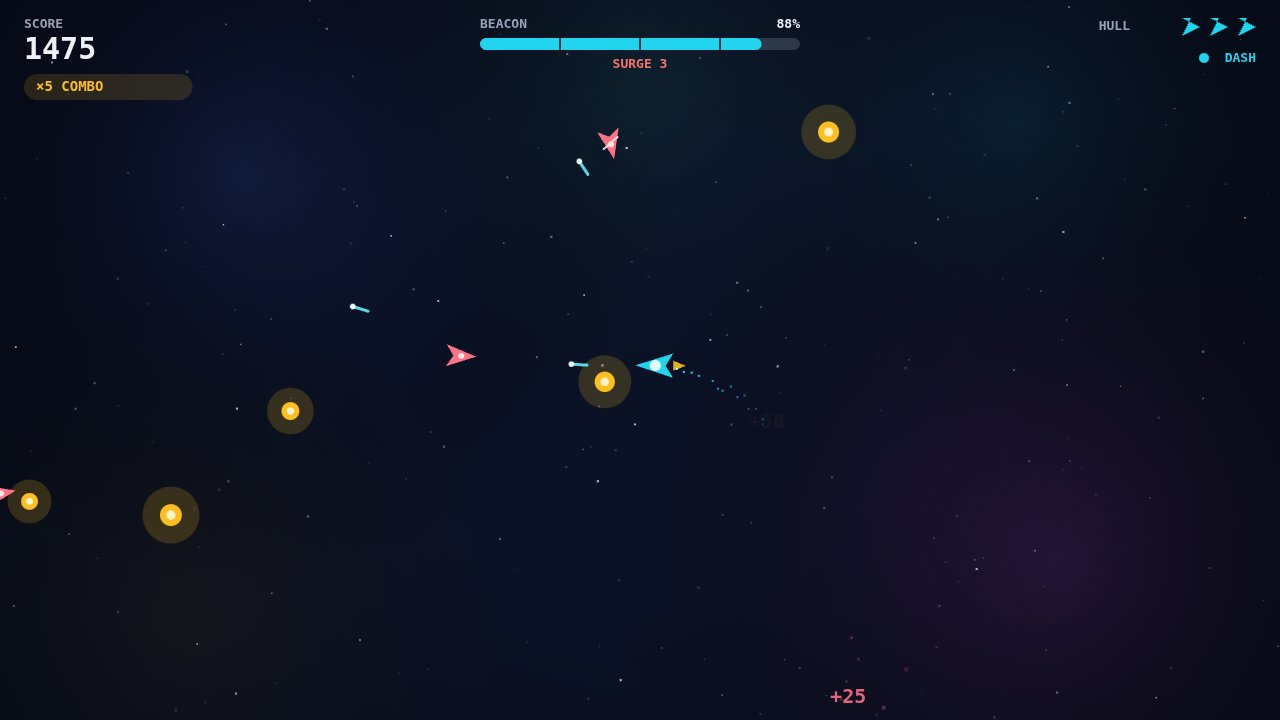
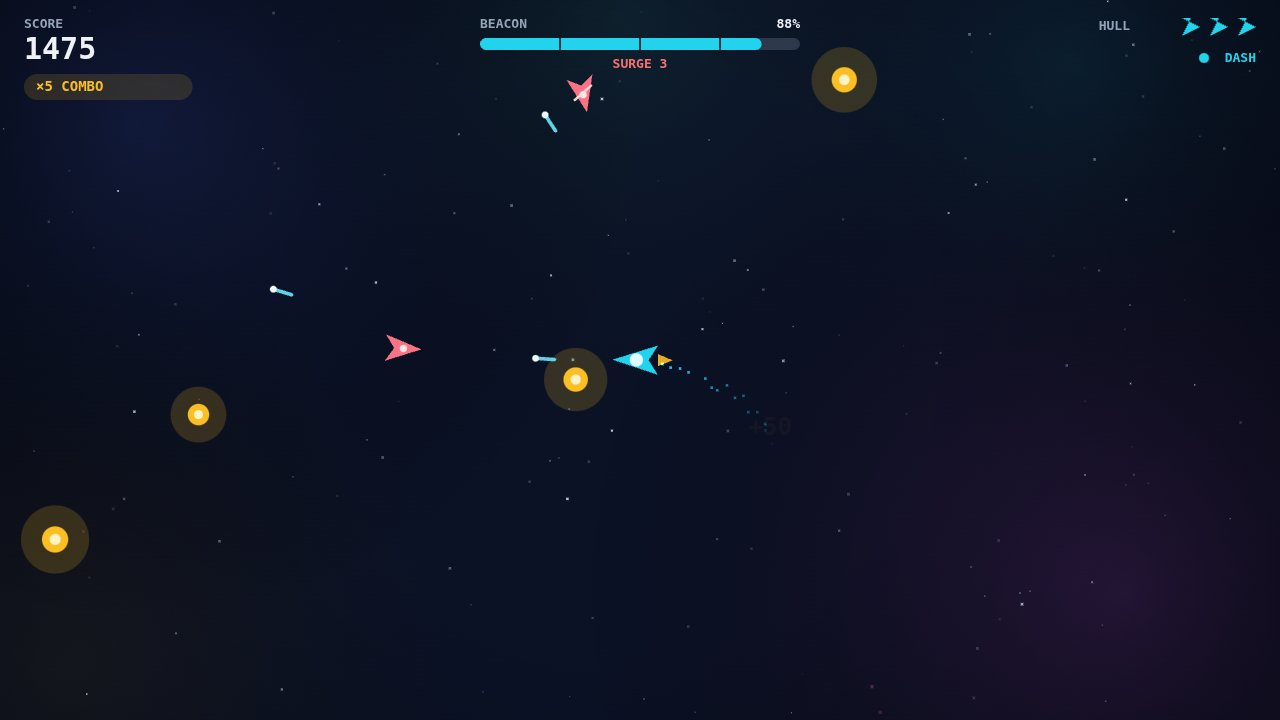
Camera follow + tighter view, re-stage shots
- render.js: camera follows the ship (lerp), 1.2x zoom window into the
  field, clamped so the view never leaves the field; HUD/panels fixed
  to the screen; mouse aim inverted through the camera; snapCamera for
  deterministic staged shots; read-only cam handle for checks
- main.js: snap the camera before painting a staged shot; expose cam
  on window.__aether
- world.js untouched: sim, rules and balance identical (strong 30/30
  wins, weak dies 26/30)
- Re-staged all 4 screenshots (same seeds: start 7, play 195, win 7,
  end 2); play shot now shows the ship centred, bigger, with the
  field flowing past

diff --git a/game/src/render.js b/game/src/render.js
@@ -1,10 +1,12 @@
 // Drawing only: the world's state and the current screen in, pixels out. The 1280x720
 // playfield is scaled to fit the window and centred, the margin filled with the backdrop
-// colour. The nebula is painted once into an offscreen canvas at boot; stars twinkle and
-// parallax against the ship; the HUD is a top bar (score, beacon, hull) and the panels are
-// thin-bordered cards. Text that holds a number is rebuilt only when the number changes,
-// so a frame allocates nothing. Shake follows a sine of the clock, never Math.random,
-// so a staged frame is the same frame every time.
+// colour. A camera follows the ship: it shows a zoomed window of the field, so the
+// field flows past as the ship moves and the ship stays near the centre. The nebula is
+// painted once into an offscreen canvas at boot; stars twinkle and parallax against
+// the ship; the HUD is a top bar (score, beacon, hull) and the panels are thin-bordered
+// cards. Text that holds a number is rebuilt only when the number changes, so a frame
+// allocates nothing. Shake follows a sine of the clock, never Math.random, so a staged
+// frame is the same frame every time.
 
 import { BOLT, DRONE, FIELD, FONT, FONT_MONO, HULL_MAX, ORB, PALETTE, SHIP } from './config.js';
 import { SCREEN_OVER, SCREEN_PAUSED, SCREEN_PLAY, SCREEN_TITLE, SCREEN_WIN } from './screens.js';
@@ -28,6 +30,16 @@ function cachedLabel(prefix) {
 export function createRenderer(canvas) {
   const context = canvas.getContext('2d');
   const view = { scale: 1, x: 0, y: 0, w: 0, h: 0 };
+  // The camera: a zoomed window into the field that follows the ship. It is a render
+  // transform only — the sim never sees it, so the rules and the balance do not
+  // change. The window is smaller than the field, so it pans within it; clamped, it
+  // never shows outside the field.
+  const CAM_ZOOM = 1.2;
+  const CAM_W = FIELD.width / CAM_ZOOM;
+  const CAM_H = FIELD.height / CAM_ZOOM;
+  const cam = { x: 0, y: 0 };
+  let camSet = false;
+  let lastDraw = 0;
   const reducedMotion = window.matchMedia?.('(prefers-reduced-motion: reduce)').matches ?? false;
   const scoreLabel = cachedLabel('');
   const bestLabel = cachedLabel('BEST ');
@@ -94,7 +106,24 @@ export function createRenderer(canvas) {
     const rect = canvas.getBoundingClientRect();
     const px = ((clientX - rect.left) / rect.width) * view.w;
     const py = ((clientY - rect.top) / rect.height) * view.h;
-    return { x: (px - view.x) / view.scale, y: (py - view.y) / view.scale };
+    // Invert the camera transform: the point under the cursor in world coordinates.
+    const scale = view.scale * CAM_ZOOM;
+    return { x: cam.x + (px - view.x) / scale, y: cam.y + (py - view.y) / scale };
+  }
+
+  function cameraTarget(state) {
+    return {
+      x: Math.min(Math.max(state.player.x - CAM_W / 2, 0), FIELD.width - CAM_W),
+      y: Math.min(Math.max(state.player.y - CAM_H / 2, 0), FIELD.height - CAM_H),
+    };
+  }
+
+  /** Put the camera exactly on the ship: a staged frame must paint identically every time. */
+  function snapCamera(state) {
+    const target = cameraTarget(state);
+    cam.x = target.x;
+    cam.y = target.y;
+    camSet = true;
   }
 
   function drawStars(state) {
@@ -366,11 +395,24 @@ export function createRenderer(canvas) {
   const WIN_LINES = ['', '', ''];
   const OVER_LINES = ['', '', ''];
 
-  /** Paint one frame: the field, then the HUD or a panel for the screen the game is on. */
+  /** Paint one frame: the field through the camera, then the HUD or a panel for the screen the game is on. */
   function draw(state, screen, best, muted) {
     context.setTransform(1, 0, 0, 1, 0, 0);
     context.fillStyle = PALETTE.backdrop;
     context.fillRect(0, 0, view.w, view.h);
+    // Follow the ship: snap the first time so the game never opens mid-slide, then
+    // ease toward it. The target is a pure function of the state, so a snapped
+    // camera paints the same frame every time.
+    const now = performance.now();
+    if (!camSet) snapCamera(state);
+    else {
+      const dt = Math.min(Math.max((now - lastDraw) / 1000, 0), 0.1);
+      const target = cameraTarget(state);
+      const k = 1 - Math.exp(-dt * 8);
+      cam.x += (target.x - cam.x) * k;
+      cam.y += (target.y - cam.y) * k;
+    }
+    lastDraw = now;
     let sx = 0;
     let sy = 0;
     if (state.shake > 0 && !reducedMotion) {
@@ -378,8 +420,11 @@ export function createRenderer(canvas) {
       sx = Math.sin(state.elapsed * 61) * mag;
       sy = Math.cos(state.elapsed * 53) * mag;
     }
-    context.setTransform(view.scale, 0, 0, view.scale, view.x + sx * view.scale, view.y + sy * view.scale);
+    const zoom = view.scale * CAM_ZOOM;
+    context.setTransform(zoom, 0, 0, zoom, view.x - (cam.x - sx) * zoom, view.y - (cam.y - sy) * zoom);
     drawField(state);
+    // The HUD and panels are fixed to the screen, not the world.
+    context.setTransform(view.scale, 0, 0, view.scale, view.x, view.y);
     if (screen === SCREEN_TITLE) {
       TITLE_LINES[4] = bestLabel(best);
       drawPanel('AETHER DRIFT', TITLE_LINES, 'Press Space or click to launch', PALETTE.ship);
@@ -402,5 +447,11 @@ export function createRenderer(canvas) {
 
   resize();
   window.addEventListener('resize', resize);
-  return { draw, toField };
+  return {
+    draw,
+    toField,
+    snapCamera,
+    /** Read-only camera state for automated checks: top-left of the camera window and zoom. */
+    get cam() { return { x: cam.x, y: cam.y, zoom: CAM_ZOOM }; },
+  };
 }

diff --git a/game/src/main.js b/game/src/main.js
@@ -54,7 +54,9 @@ function saveBest(value) {
 function runShot(name) {
   const scene = stageShot(name, world);
   // A read-only handle for automated checks: the world and the staged screen.
-  window.__aether = { world, screen: scene.screen };
+  window.__aether = { world, screen: scene.screen, get cam() { return renderer.cam; } };
+  // Snap the camera so both paints of this frame are identical.
+  renderer.snapCamera(world.state);
   let painted = 0;
   function paint() {
     renderer.draw(world.state, scene.screen, scene.best, false);
@@ -73,7 +75,7 @@ function runGame() {
   let accumulator = 0;
   let last = performance.now();
   // A read-only handle for automated checks: the world and the live screen.
-  window.__aether = { world, get screen() { return screen; } };
+  window.__aether = { world, get screen() { return screen; }, get cam() { return renderer.cam; } };
 
   // Screen readers (and anyone watching the page's text) hear the screen changes and each hit.
   function announce(message) {
